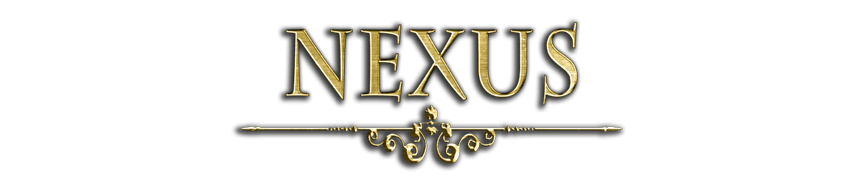
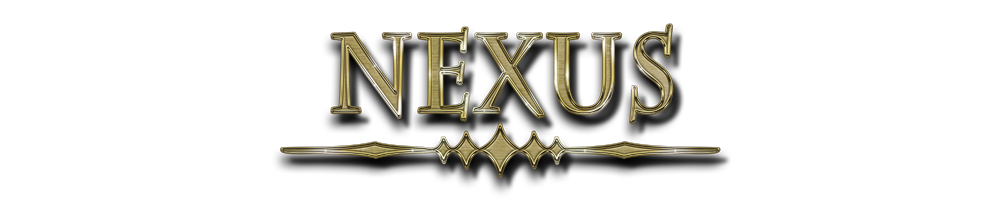
Minor changes

Changed region(s): [[0.2721, 0.1136, 0.7256, 0.9659]]

diff --git a/src/views/Academy.vue b/src/views/Academy.vue
@@ -8,6 +8,48 @@
                         <v-card-text>Bienvenue dans la base de données éducatives publique de Nelva. Cette base de donnée, qui a vocation à s'enrichir, sert aussi à la validation des compétences en Nelva. Si vous n'êtes pas Nelva, la seule différence est que vous ne pourrez pas être entraînés sur les points évoqués → la théorie ne remplace pas la pratique.</v-card-text>
                     </v-card>
                 </v-flex>
+                <v-layout row wrap>
+                    <v-flex xs3>
+                        <v-card class="patterned">
+                            <v-card-title primary-title class="card-title text-xs-center">
+                                <img class="course-title" src="@/assets/img/design/titles/military.png">
+                            </v-card-title>
+                            <v-card-text>
+                                <img class="course-type" src="@/assets/img/military.jpg">
+                            </v-card-text>
+                        </v-card>
+                    </v-flex>
+                    <v-flex xs3>
+                        <v-card class="patterned">
+                            <v-card-title primary-title class="card-title text-xs-center">
+                                <img class="course-title" src="@/assets/img/design/titles/economy.png">
+                            </v-card-title>
+                            <v-card-text>
+                                <img class="course-type" src="@/assets/img/economy.jpg">
+                            </v-card-text>
+                        </v-card>
+                    </v-flex>
+                    <v-flex xs3>
+                        <v-card class="patterned">
+                            <v-card-title primary-title class="card-title text-xs-center">
+                                <img class="course-title" src="@/assets/img/design/titles/diplomacy.png">
+                            </v-card-title>
+                            <v-card-text>
+                                <img class="course-type" src="@/assets/img/diplomacy.jpg">
+                            </v-card-text>
+                        </v-card>
+                    </v-flex>
+                    <v-flex xs3>
+                        <v-card class="patterned">
+                            <v-card-title primary-title class="card-title text-xs-center">
+                                <img class="course-title" src="@/assets/img/design/titles/leadership.png">
+                            </v-card-title>
+                            <v-card-text>
+                                <img class="course-type" src="@/assets/img/leadership.jpg">
+                            </v-card-text>
+                        </v-card>
+                    </v-flex>
+                </v-layout>
             </v-flex>
         </v-layout>
     </v-container>
@@ -20,4 +62,8 @@ export default {
 </script>
 
 <style lang="css">
+.course-type, .course-title {
+    width: 100%;
+    height: auto;
+}
 </style>

diff --git a/src/views/Nexus.vue b/src/views/Nexus.vue
@@ -3,7 +3,10 @@
         <v-layout row wrap>
             <v-layout row wrap v-if="!error.state">
                 <v-flex xs12>
-                    <img src="@/assets/img/design/titles/nexus.png"/>
+                    <div class="logo-wrap">
+                        <img class="nexus-img" src="@/assets/img/design/titles/nexus.png"/>
+                        <img class="nexus-hover" src="@/assets/img/design/titles/nexus-hover.png"/>
+                    </div>
                     <v-flex xs12>
                         <v-card class="patterned">
                             <v-card-text>Bienvenue dans la base de données de documents du Royaume de Nelva</v-card-text>
@@ -12,7 +15,7 @@
                     </v-flex>
                 </v-flex>
                 <v-flex xs12>
-                    <v-layout align-center row wrap>
+                    <v-layout align-center row wrap v-if="this.$session.get('discordUser')">
                         <v-flex xs2 offset-xs4>
                             <v-btn ref="document" :disabled="this.creatingDocument" color="info" @click="createDocument"><v-icon>add</v-icon> Nouveau document</v-btn>
                         </v-flex>
@@ -55,7 +58,7 @@
                     <div v-else class="grid">
                         <div class="document" v-for="doc in this.documents" :key="doc.slug" @click="openDocument(doc.slug)">
                             <div class="doc-img">
-                                <img :src="doc.image" />
+                                <img :src="doc.image || require('@/assets/img/default.png')" />
                             </div>
                             <div class="doc-title">
                                 <h2>{{ doc.title }}</h2>
@@ -361,5 +364,24 @@ export default {
 
 .padded {
     padding: 20px;
+}
+.logo-wrap {
+    position: relative;
+}
+.nexus-hover {
+    position: absolute;
+    left: 400px;
+    transition: 250ms;
+    z-index: -1;
+    opacity: 0;
+}
+.nexus-img {
+    transition: 250ms;
+}
+.nexus-img:hover {
+    opacity: 0;
+}
+.nexus-img:hover ~ .nexus-hover {
+    opacity: 1;
 }
 </style>

diff --git a/src/views/Military.vue b/src/views/Military.vue
@@ -1,0 +1,27 @@
+<template lang="html">
+    <v-container align-center grid-list-xl>
+        <v-layout row wrap>
+            <v-flex>
+                <img src="@/assets/img/design/titles/academy.png"/>
+                <v-flex>
+                    <v-card class="patterned">
+                        <v-card-text>Bienvenue dans la base de données éducatives publique de Nelva. Cette base de donnée, qui a vocation à s'enrichir, sert aussi à la validation des compétences en Nelva. Si vous n'êtes pas Nelva, la seule différence est que vous ne pourrez pas être entraînés sur les points évoqués → la théorie ne remplace pas la pratique.</v-card-text>
+                    </v-card>
+                </v-flex>
+                <v-layout row wrap>
+
+                </v-layout>
+            </v-flex>
+        </v-layout>
+    </v-container>
+</template>
+
+<script>
+export default {
+    name: 'Military'
+}
+</script>
+
+<style lang="css">
+
+</style>

diff --git a/src/router/index.js b/src/router/index.js
@@ -40,6 +40,26 @@ export default new Router({
             component: () => import('@/views/Academy')
         },
         {
+            name: 'military',
+            path: '/academy/military',
+            component: () => import('@/views/Military')
+        },
+        {
+            name: 'economy',
+            path: '/academy/economy',
+            component: () => import('@/views/Economy')
+        },
+        {
+            name: 'diplomacy',
+            path: '/academy/diplomacy',
+            component: () => import('@/views/Diplomacy')
+        },
+        {
+            name: 'leadership',
+            path: '/academy/leadership',
+            component: () => import('@/views/Leadership')
+        },
+        {
             name: 'nexus',
             path: '/nexus',
             component: () => import('@/views/Nexus'),

diff --git a/src/App.vue b/src/App.vue
@@ -1,5 +1,8 @@
 <template lang="html">
     <v-app>
+        <div class="background">
+            <img src="@/assets/img/faondbleu.jpg">
+        </div>
         <Toolbar></Toolbar>
         <router-view></router-view>
         <Footer></Footer>
@@ -35,9 +38,22 @@ export default {
 }
 
 .application--wrap {
+    z-index: 1;
+    /*
     background-attachment: fixed;
     background-size: cover;
+    background-image: url('assets/img/faondbleu.jpg');
     background-color: #4a69bd
+    */
+}
+
+.background, .background > img {
+    z-index: -1;
+    position: fixed;
+    top: 0;
+    left: 0;
+    width: 100%;
+    filter: brightness(80%);
 }
 
 * {

diff --git a/src/views/Admin.vue b/src/views/Admin.vue
@@ -1,6 +1,7 @@
 <template lang="html">
     <v-container align-center grid-list-xl>
         <v-layout row wrap>
+            <v-flex><img src="https://media0.giphy.com/media/7pBQGonWf0xJC/giphy.gif"></v-flex>
         </v-layout>
     </v-container>
 </template>

diff --git a/src/views/Home.vue b/src/views/Home.vue
@@ -93,6 +93,8 @@ export default {
 
 .logo {
     transition: 250ms;
+    max-width: 60%;
+    z-index: 2;
 }
 
 .logo:hover {
